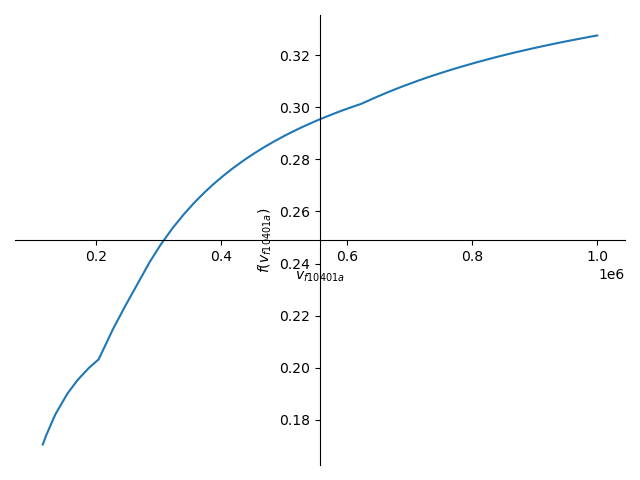
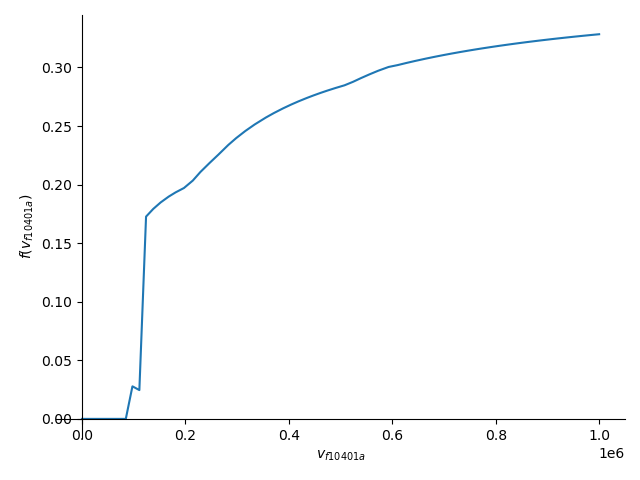
Fix plotting

diff --git a/main.py b/main.py
@@ -162,13 +162,17 @@ def main():
 	parser.add_argument('-c', '--consts-file', default='consts/2024.yml')
 	parser.add_argument('-i', '--input-file', default='input.yml')
 	parser.add_argument('-v', '--verbose', action='store_true')
+	parser.add_argument('--variable-inputs',
+						help='comma-separated input names that may vary')
 	parser.add_argument('--plot', action='store_true')
 	args = parser.parse_args()
 
 	e = Equation()
-	if 'fixed inputs':
-		# e.g. {'v_f1040_1a'}
-		e.set_variable_fixed_inputs(set(), get_inputs(args.input_file))
+	# e.g. {'v_f1040_1a'}
+	variable_inputs = set()
+	if args.variable_inputs:
+		variable_inputs = args.variable_inputs.split(',')
+	e.set_variable_fixed_inputs(variable_inputs, get_inputs(args.input_file))
 	compute_consts(e, args.consts_file, args.filing_status, args.filing_status)
 	compute_f1040(e)
 	compute_ca540(e)
@@ -199,7 +203,7 @@ def main():
 		# TODO: plotting does not implement condition check yet.
 		from sympy import plot
 		x = e.g('v_f1040_1a')[0]
-		del inputs['v_f1040_1a']
+		del inputs[symbols('v_f1040_1a')]
 		y = (e.g('v_f1040_16')[0] / e.g('v_f1040_15')[0]).subs(inputs.items())
 		print(repr(y).replace('v_f1040_1a', 'x'))
 		plot(y, (x, 0, 1000000))

diff --git a/c_f1040.py b/c_f1040.py
@@ -30,7 +30,8 @@ def tax_computation_worksheet(g, ti):
 		(ti * g('c_f1040_16_ws_b4') - g('c_f1040_16_ws_d4'),
 		 (ti >= g('c_f1040_16_ws_t4')) & (ti < g('c_f1040_16_ws_t5'))),
 		(ti * g('c_f1040_16_ws_b5') - g('c_f1040_16_ws_d5'),
-		 (ti >= g('c_f1040_16_ws_t5'))))
+		 (ti >= g('c_f1040_16_ws_t5'))),
+		(0, True))
 	c = ti >= g('c_f1040_16_ws_t1')
 	return v, c
 
@@ -52,7 +53,8 @@ def compute_f1040_qdcgtw(e):
 		_qv, _qc= ge('v_f1040_16_qdcgtw_3_file_d')
 		_v = Piecewise(
 			(Min(_d15v, _d16v), _qv >= 1),
-			(_7v, _qv <= 0))
+			(_7v, _qv <= 0),
+			(0, True))
 		_c = _qc & (((_qv >= 1) & _d15c & _d16c) | ((_qv <= 0) & _7c))
 		return _v, _c
 	@e.ded
@@ -169,7 +171,8 @@ def compute_f1040(e):
 		_21v, _21c = gc('v_f1040sd_21')
 		v = Piecewise(
 			(_16v, _16c & (_16v >= 0)),
-			(_21v, _21c))
+			(_21v, _21c),
+			(0, True))
 		c = (_16c & (_16v >= 0)) | _21c
 		return v, c
 	e.di('v_f1040_8')

diff --git a/c_ca540.py b/c_ca540.py
@@ -92,7 +92,7 @@ def compute_ca540(e):
 			if i != 9:
 				_c &= _ti < g('c_ca540_31_trs_t%d' % (i + 1))
 			args.append((_v, _c))
-		v = Piecewise(*args)
+		v = Piecewise(*args, (0, True))
 		c = _ti >= g('c_ca540_31_trs_t1')
 		return v, c
 	@e.ded
@@ -232,7 +232,7 @@ def compute_ca540(e):
 		_bv = _1v - _99v
 		_bc = (_1v > _99v) & _99c & _1c
 		# Combine case a and b above (Note: this Piecewise seems to be slow).
-		_v = Piecewise((_av, _ac), (_bv, _bc))
+		_v = Piecewise((_av, _ac), (_bv, _bc), (0, True))
 		_c = Xor(_ac, _bc)
 		return _v, _c
 

diff --git a/README.md b/README.md
@@ -177,7 +177,36 @@ v_ca540_115 = undefined
 $ 
 ```
 
-Tax rate graph generated by [an earlier version of this program](https://github.com/lxylxy123456/sympy-tax/tree/311616f91e7e8398480b008a5ecbf807ca5028a1):
+Print all results as a function to `v_f1040_1a` and plot the tax rate graph:
+
+```
+$ python3 main.py -f single --variable-inputs v_f1040_1a -v --plot
+v_f1040_1z = v_f1040_1a
+           = 120000
+
+v_f1040sb_4 = 1500
+            = 1500
+...
+
+v_f1040_15 = Max(0, v_f1040_1a + 4885)
+           = 124885
+
+v_f1040_16_qdcgtw_1 = Max(0, v_f1040_1a + 4885)
+                    = 124885
+...
+
+v_f1040_37 = Max(0, Min(Piecewise((0.22*Max(0, Max(0, v_f1040_1a + 4885) ... (1972)
+             if (Max(0, v_f1040_1a + 4885) >= 100000) & (Max(0, Max(0, v_f10... (2070)
+           = 1306.25000000000
+...
+
+v_ca540_100 = Max(0, Piecewise((0.01*Max(0, v_f1040_1a + 13945), Max(0, v_... (730)
+              if (v_f1040_1a + 19485 <= 244857) & (6000 < Max(0, Piecewise((0... (765)
+            = 2850.24700000000
+...
+
+$ 
+```
 
 ![demo.png](misc/demo.png)
 
